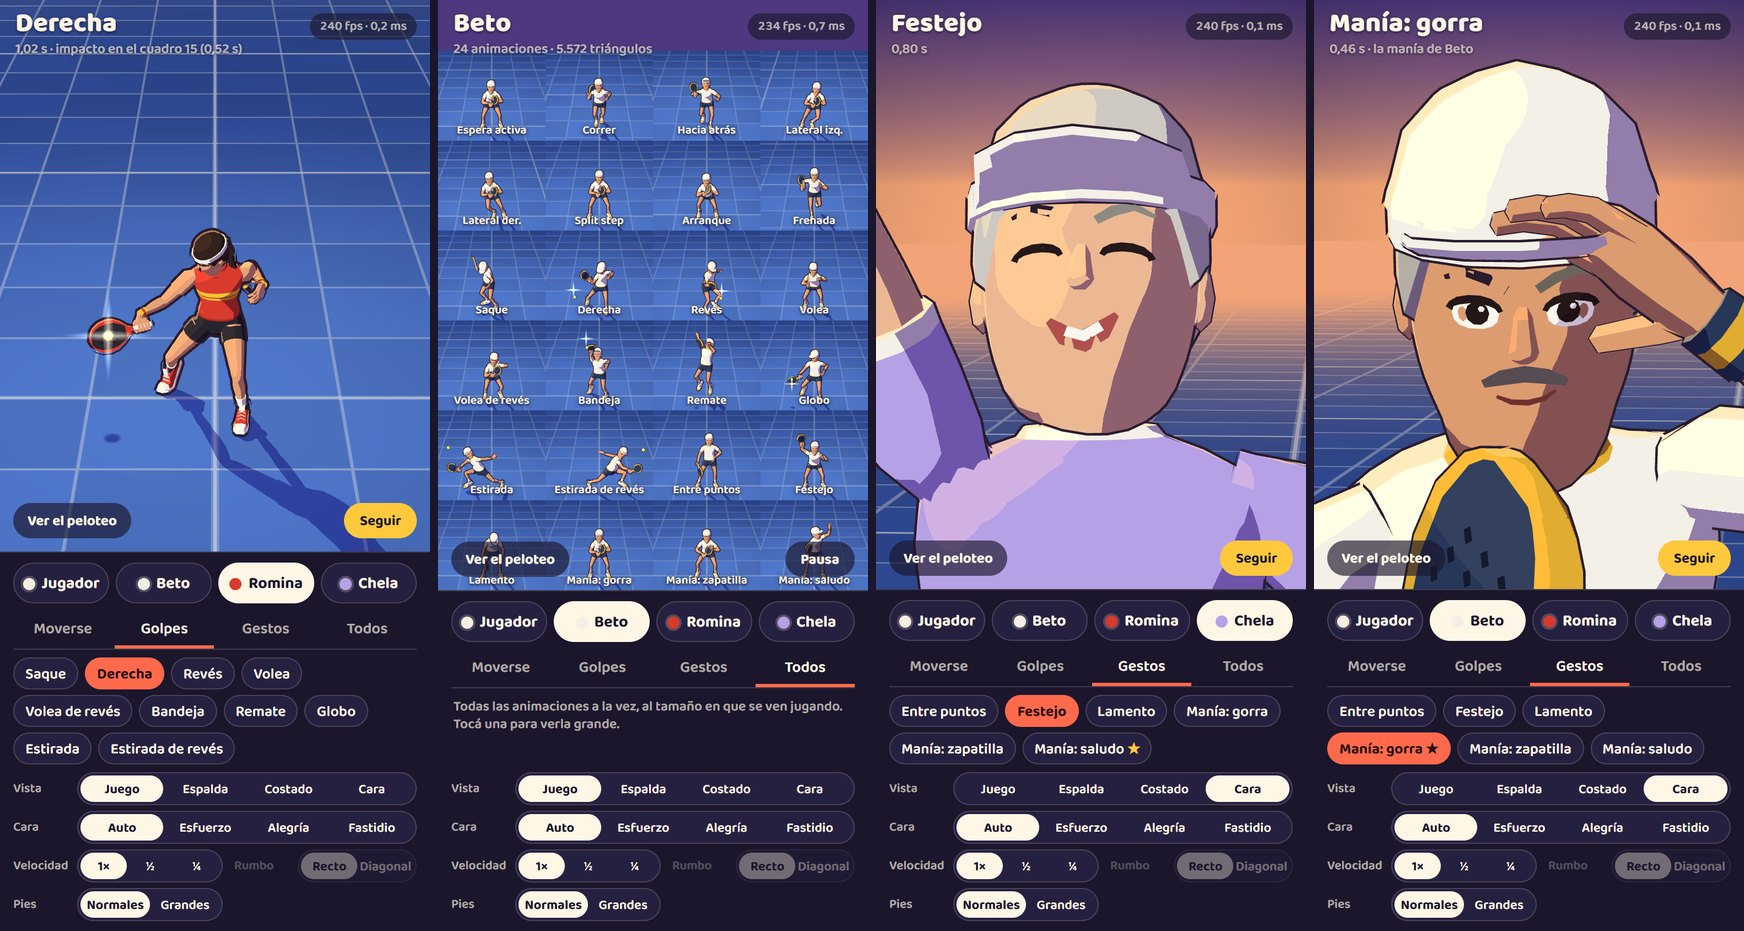
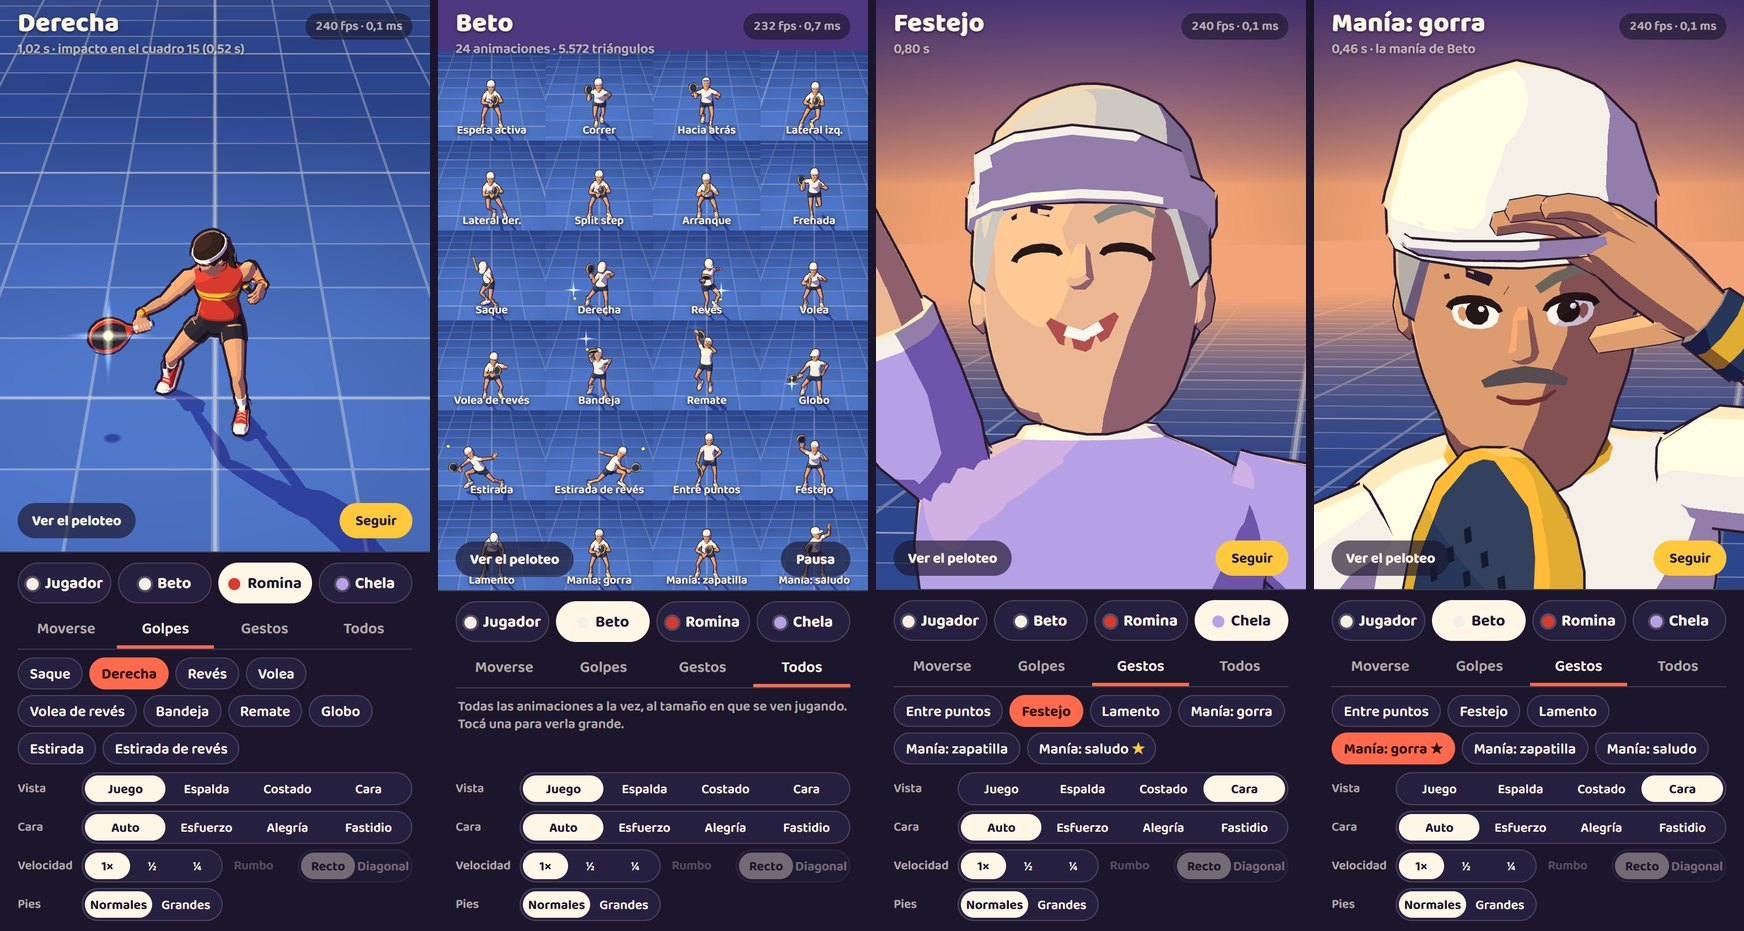
Polish the backhand and give the side gallop and backpedal a livelier upper body
- Backhand: more upright, the hips lead before the racket drops, contact at
  waist height and a higher finish.
- Side gallop and backpedal: shoulders, hands and racket now move with the
  push and the steps.
- Re-exported the character and refreshed the review sheets, the captures,
  the weight and foot-plant reports and the README numbers.

diff --git a/design/prueba-3d/blender/anim_golpes.py b/design/prueba-3d/blender/anim_golpes.py
@@ -66,32 +66,40 @@ def _derecha():
 # Revés: de costado, la mano izquierda acompaña la pala en el armado y después abre para atrás
 # ---------------------------------------------------------------------------
 def _reves():
-    cruza = (0.02, -0.42, 0.0)                    # el pie derecho cruza adelante
+    cruza = (0.04, -0.46, 0.0)                    # el pie derecho cruza adelante
     arm = pose(
-        hips=(0.09, 0.03, -0.17), hips_rot=(12, 58, 0), spine=(6, 20, -2), chest=(4, 26, -3), look=(0.9, -3.0, 1.0),
-        footR=cruza, footR_rot=(52, 0), footL=PIE_L, footL_rot=(76, 0),
-        handR=(0.38, 0.12, 1.12), elbowR=(-0.2, -0.5, -0.8), racket=(0.30, 0.52, 0.80), face=(-0.5, 0.75, -0.4),
-        handL=(0.47, 0.20, 1.22), elbowL=(0.6, 0.6, -0.5), fingersL=(-0.3, 0.3, 0.9), palmL=(-0.8, -0.5, 0),
+        hips=(0.10, 0.04, -0.13), hips_rot=(8, 60, 0), spine=(4, 20, -2), chest=(2, 28, -3), look=(0.9, -3.0, 1.0),
+        footR=cruza, footR_rot=(54, 0), footL=PIE_L, footL_rot=(78, 0),
+        handR=(0.44, 0.06, 1.00), elbowR=(-0.3, -0.4, -0.9), racket=(0.22, 0.62, 0.75), face=(-0.5, 0.75, -0.4),
+        handL=(0.52, 0.17, 1.10), elbowL=(0.7, 0.6, -0.4), fingersL=(-0.3, 0.3, 0.9), palmL=(-0.8, -0.5, 0),
         braid=(-14, 2, -22, 4),
     )
-    load = pose(arm, hips=(0.11, 0.05, -0.23), hips_rot=(15, 66, 0), chest=(4, 30, -4), handR=(0.44, 0.20, 1.10), handL=(0.52, 0.28, 1.20),
-                racket=(0.40, 0.62, 0.68), braid=(-18, 6, -28, 8))
+    load = pose(arm, hips=(0.13, 0.07, -0.20), hips_rot=(10, 68, 0), chest=(2, 32, -4), handR=(0.50, 0.14, 0.98), handL=(0.58, 0.25, 1.08),
+                racket=(0.34, 0.70, 0.63), braid=(-18, 6, -28, 8))
+    drop = pose(                                    # la cadera sale primero; la pala todavía viene atrás y abajo
+        hips=(0.09, -0.04, -0.17), hips_rot=(9, 52, 0), spine=(4, 18, 0), chest=(2, 26, 0), look=(0.6, -1.4, 0.95),
+        footR=cruza, footR_rot=(48, 0), footL=PIE_L, footL_rot=(72, 20),
+        handR=(0.46, -0.18, 0.88), elbowR=(0.0, -0.2, -1.0), racket=(0.55, 0.62, -0.20), face=(-0.3, 0.8, -0.5),
+        handL=(0.52, 0.24, 1.10), elbowL=(0.7, 0.6, -0.4), fingersL=(0.1, 0.6, 0.6), palmL=(-0.6, -0.4, -0.6),
+        braid=(-6, 4, -10, 6),
+    )
     hit = pose(
-        hips=(0.05, -0.12, -0.15), hips_rot=(12, 40, 0), spine=(6, 12, 0), chest=(4, 12, 0), look=(0.55, -0.92, 0.95),
-        footR=cruza, footR_rot=(42, 0), footL=PIE_L, footL_rot=(68, 34),
-        handR=(0.18, -0.66, 1.02), elbowR=(0.3, 0.2, -0.9), racket=(0.90, -0.42, -0.08), face=(0.1, 1.0, -0.12),
-        handL=(0.40, 0.36, 1.12), elbowL=(0.7, 0.5, -0.5), fingersL=(0.5, 0.8, -0.3), palmL=(0, 0, -1),
+        hips=(0.05, -0.16, -0.10), hips_rot=(7, 40, 0), spine=(3, 10, 0), chest=(1, 8, 0), look=(0.50, -0.95, 1.0),
+        footR=cruza, footR_rot=(42, 0), footL=PIE_L, footL_rot=(66, 40),
+        handR=(0.16, -0.70, 1.04), elbowR=(0.3, 0.2, -0.9), racket=(0.92, -0.38, -0.04), face=(0.1, 1.0, -0.10),
+        handL=(0.44, 0.44, 1.18), elbowL=(0.6, 0.7, -0.3), fingersL=(0.45, 0.85, -0.2), palmL=(0, 0, -1),
         braid=(20, 6, 30, 10),
     )
     follow = pose(
-        hips=(0.03, -0.18, -0.10), hips_rot=(10, 26, 0), spine=(4, 6, 0), chest=(2, 4, 0), look=(0.3, -2.0, 1.2),
-        footR=cruza, footR_rot=(34, 0), footL=PIE_L, footL_rot=(60, 52),
-        handR=(-0.36, -0.62, 1.28), elbowR=(0.2, 0.3, -0.9), racket=(-0.52, -0.50, 0.69), face=(-0.5, 0.75, 0.3),
-        handL=(0.44, 0.46, 0.98), elbowL=(0.7, 0.5, -0.5), fingersL=(0.4, 0.85, -0.3), palmL=(0, 0, -1),
+        hips=(0.02, -0.22, -0.05), hips_rot=(5, 24, 0), spine=(1, 4, 0), chest=(-2, 0, 0), look=(0.3, -2.0, 1.3),
+        footR=cruza, footR_rot=(34, 0), footL=PIE_L, footL_rot=(58, 56),
+        handR=(-0.40, -0.58, 1.40), elbowR=(0.2, 0.3, -0.9), racket=(-0.48, -0.36, 0.80), face=(-0.5, 0.75, 0.3),
+        handL=(0.48, 0.52, 1.00), elbowL=(0.7, 0.5, -0.5), fingersL=(0.4, 0.85, -0.3), palmL=(0, 0, -1),
         braid=(24, 8, 34, 12),
     )
-    end = pose(follow, handR=(-0.46, -0.52, 1.38), racket=(-0.60, -0.30, 0.74), hips_rot=(9, 20, 0), look=(0.0, -6.0, 1.9), braid=(-8, 4, -12, 6))
-    return _golpe('reves', 1.02, 0.52, [K(0.0, pose(), True), K(0.20, arm), K(0.40, load, True), K(0.52, hit), K(0.62, follow),
+    end = pose(follow, hips=(0.02, -0.22, -0.03), handR=(-0.50, -0.46, 1.50), racket=(-0.52, -0.16, 0.84), hips_rot=(5, 18, 0),
+               look=(0.0, -6.0, 1.9), braid=(-8, 4, -12, 6))
+    return _golpe('reves', 1.02, 0.52, [K(0.0, pose(), True), K(0.20, arm), K(0.40, load, True), K(0.47, drop), K(0.52, hit), K(0.62, follow),
                                         K(0.75, end, True), K(1.02, pose(), True)], 'Revés', (0.20, 0.40), 'reves')
 
 

diff --git a/design/prueba-3d/blender/anim_locomocion.py b/design/prueba-3d/blender/anim_locomocion.py
@@ -95,13 +95,13 @@ def atras_pose(ph):
     yl, ll, hl, al = _atras_foot(ph)
     yr, lr, hr, ar = _atras_foot(ph + 0.5)
     return pose(
-        hips=(0.016 * sn, 0.075, -0.115 + 0.018 * bob), hips_rot=(15, 7 * s, -2 * sn),
-        spine=(7, -6 * s, 0), chest=(2, -6 * s, 0), head=(0, 0, 0), look=(0.0, -6.0, 4.2),
+        hips=(0.016 * sn, 0.075, -0.115 + 0.018 * bob), hips_rot=(15, 9 * s, -2 * sn),
+        spine=(7, -8 * s, 0), chest=(2, -9 * s, 3 * sn), head=(0, 0, 0), look=(0.0, -6.0, 4.2),
         footL=(0.12 + 0.015 * al, yl, ll), footL_rot=(12, hl), kneeL=(0,),
         footR=(-0.12 - 0.015 * ar, yr, lr), footR_rot=(-12, hr), kneeR=(0,),
-        handR=(-0.27, -0.26 + 0.04 * s, 1.27 + 0.012 * bob), elbowR=(-0.8, 0.5, -0.3),
-        racket=(-0.08, -0.05, 0.99), face=(0.25, -0.95, 0.15),
-        handL=(0.33, -0.36 - 0.05 * s, 1.08 - 0.012 * bob), elbowL=(0.8, 0.5, -0.4),
+        handR=(-0.27, -0.26 + 0.09 * s, 1.27 + 0.03 * bob + 0.03 * s), elbowR=(-0.8, 0.5, -0.3),
+        racket=(-0.08 + 0.06 * s, -0.05 - 0.08 * s, 0.99), face=(0.25, -0.95, 0.15),
+        handL=(0.33, -0.34 - 0.12 * s, 1.08 - 0.02 * bob - 0.06 * s), elbowL=(0.8, 0.5, -0.4),
         fingersL=(0.25, -0.75, 0.60), palmL=(-0.5, 0.3, -0.8),
         braid=(-6 * sn, -14 + 4 * bob, -10 * sn, -22 + 6 * bob),
     )
@@ -142,6 +142,7 @@ def lateral_pose(ph, sign):
                                [(0.0, 46.0), (0.35, 30.0), (0.8, 10.0), (1.0, 14.0)], 0.09)
     hop = math.cos(TAU * (ph - 0.80))        # +1 en el medio del vuelo
     push = ramp(0.30, 0.56, ph) * ramp(0.72, 0.56, ph)      # el empujón de la pierna de atrás
+    sw = math.cos(TAU * (ph - 0.47))         # los hombros y las manos se quedan cuando empuja y se adelantan en el vuelo
     if sign > 0:
         fl, fr = (xa, -0.12, la), (xb, -0.10, lb)
         rl, rr = (16, ha), (-14, hb)
@@ -150,12 +151,12 @@ def lateral_pose(ph, sign):
         rl, rr = (14, hb), (-16, ha)
     return pose(
         hips=(sign * (0.035 + 0.03 * math.cos(TAU * (ph - 0.05))), 0.06, -0.165 + 0.034 * hop),
-        hips_rot=(19, 3 * sign, sign * (3 + 3 * push)), spine=(10, -2 * sign, -sign * 2 * push), chest=(6, -1 * sign, 0),
+        hips_rot=(19, 3 * sign, sign * (3 + 3 * push)), spine=(10, -2 * sign, -sign * 3 * push), chest=(6, -1 * sign - 5 * sign * sw, -sign * 4 * sw),
         head=(0, 0, 0), look=MIRA,
         footL=fl, footL_rot=rl, kneeL=(0,), footR=fr, footR_rot=rr, kneeR=(0,),
-        handR=(-0.09 - 0.02 * sign * push, -0.40, 0.995 + 0.035 * hop), elbowR=(-0.8, 0.3, -0.5),
-        racket=(0.42, -0.40, 0.82), face=(0.8, 0.55, -0.1),
-        handL=(0.115 - 0.02 * sign * push, -0.455, 1.095 + 0.035 * hop), elbowL=(0.8, 0.3, -0.5),
+        handR=(-0.09 - 0.06 * sign * sw, -0.40 + 0.03 * sw, 0.995 + 0.055 * hop), elbowR=(-0.8 - 0.15 * hop, 0.3, -0.5),
+        racket=(0.42 + 0.10 * sign * sw, -0.40, 0.82), face=(0.8, 0.55, -0.1),
+        handL=(0.115 - 0.06 * sign * sw, -0.455 + 0.03 * sw, 1.095 + 0.055 * hop), elbowL=(0.8 + 0.15 * hop, 0.3, -0.5),
         fingersL=(-0.55, -0.45, 0.70), palmL=(-0.6, 0.7, 0.2),
         braid=(-13 * sign - 5 * sign * hop, 4 + 6 * hop, -21 * sign - 8 * sign * hop, 6 + 9 * hop),
     )

diff --git a/design/prueba-3d/README.md b/design/prueba-3d/README.md
@@ -205,12 +205,12 @@ Medido con `herramientas/pesar.mjs`, que parte el archivo y comprime cada parte 
 | Pieza: bigote | 0,2 | 0,2 | 0,2 | 10 vértices |
 | Caras: 4 expresiones | 3,1 | 1,6 | 1,3 | 130 vértices que se mueven |
 | Clips: espera activa | 6,2 | 1,7 | 1,5 | 1 clip, 30 cuadros |
-| Clips: locomoción | 20,4 | 8,8 | 7,7 | 7 clips, 99 cuadros |
-| Clips: golpes | 62,0 | 30,2 | 25,4 | 10 clips, 301 cuadros |
+| Clips: locomoción | 20,4 | 9,1 | 7,9 | 7 clips, 99 cuadros |
+| Clips: golpes | 62,0 | 30,2 | 25,5 | 10 clips, 301 cuadros |
 | Clips: reacciones | 22,7 | 6,3 | 5,4 | 3 clips, 110 cuadros |
 | Clips: manías | 10,9 | 4,7 | 4,1 | 3 clips, 53 cuadros |
 | Metadatos (JSON) | 18,4 | 3,7 | 3,2 | Huesos, paletas, personajes y clips |
-| **Archivo completo** | **253,6** | **115,0** | **83,5** | 4.676 vértices, 5.848 triángulos, 24 clips |
+| **Archivo completo** | **253,6** | **115,3** | **83,5** | 4.676 vértices, 5.848 triángulos, 24 clips |
 
 Contra la ronda 3:
 
@@ -223,11 +223,11 @@ Contra la ronda 3:
 | Caras | 1 | 5 |
 
 - **Hay más del doble de animación y el archivo pesa menos.** Lo pagó la dieta de la malla.
-- **Los clips son ahora la mitad del peso.** Un golpe pesa entre 2 y 4 KB; un ciclo de locomoción, 1,2 a 1,6 KB.
+- **Los clips son ahora la mitad del peso.** Un golpe pesa entre 2 y 4 KB; un ciclo de locomoción, 1,3 a 1,6 KB.
 - Los giros se guardan con 11 bits por componente en vez de 16. Ahorra un 30 % en los clips. El costo: un pie quieto se mueve hasta 1,5 mm, contra 0,1 mm con 16 bits. Con 10 bits se ahorran otros 6 KB y el pie quieto se mueve hasta 3,5 mm; no se hizo para que no tiemble en la vista de cerca.
 - **GitHub Pages**: no se verificó que comprima los `.bin`. Si no lo hace, viajarían los 254 KB enteros. Hay dos salidas: publicarlo ya comprimido y abrirlo con `DecompressionStream('gzip')`, o servirlo con una extensión que el hosting sí comprima.
 
-Por clip, con gzip, en KB: listo 1,7 · correr 1,6 · correr_atras 1,2 · lateral_izq 1,2 · lateral_der 1,2 · split_step 1,8 · arranque 1,3 · frenada 1,6 · saque 3,9 · derecha 3,6 · reves 3,3 · volea 2,2 · volea_reves 2,1 · bandeja 3,5 · remate 4,2 · globo 3,6 · estirada 2,9 · estirada_reves 3,0 · espera 1,8 · festejo 2,5 · lamento 2,1 · mania_gorra 1,2 · mania_zapatilla 1,8 · mania_saludo 2,0.
+Por clip, con gzip, en KB: listo 1,7 · correr 1,6 · correr_atras 1,3 · lateral_izq 1,3 · lateral_der 1,3 · split_step 1,8 · arranque 1,3 · frenada 1,6 · saque 3,9 · derecha 3,6 · reves 3,3 · volea 2,2 · volea_reves 2,1 · bandeja 3,5 · remate 4,2 · globo 3,6 · estirada 2,9 · estirada_reves 3,0 · espera 1,8 · festejo 2,5 · lamento 2,1 · mania_gorra 1,2 · mania_zapatilla 1,8 · mania_saludo 2,0.
 
 ### Qué se verificó
 
@@ -239,7 +239,7 @@ node design/prueba-3d/herramientas/verificar-pasos.mjs
 
 El detalle por clip está en [`pasos.json`](pasos.json).
 
-- **Los pies no patinan.** Un pie apoyado se aparta, como mucho, 7,7 mm de donde apoyó (el pie de atrás del paso lateral). En correr son 4,5 mm; en el resto de la locomoción, menos de 3,5 mm. Al tamaño de juego, 7,7 mm es un tercio de píxel.
+- **Los pies no patinan.** Un pie apoyado se aparta, como mucho, 7,7 mm de donde apoyó (el pie de atrás del paso lateral). En correr son 4,5 mm; en el resto de la locomoción, 3,4 mm o menos. Al tamaño de juego, 7,7 mm es un tercio de píxel.
 - **De dónde sale ese resto**: los clips se guardan a 30 cuadros por segundo y entre cuadro y cuadro se interpola. Con los giros a 16 bits el número casi no cambia (7,2 mm): es la interpolación, no la precisión. En la fuente, antes de exportar, el pie apoyado se mueve 1,6 mm como mucho en la locomoción (`blender/verificar_pasos.py`).
 - **Los empalmes son exactos**: de la espera al arranque, del arranque a correr, de correr a la frenada y de la frenada a la espera, la última pose de un clip y la primera del siguiente coinciden (0,0 mm).
 - **El contacto es exacto**: en el cuadro de contacto, la pala queda a 1,3 mm o menos del punto que declaran los metadatos.
@@ -268,9 +268,8 @@ Con el criterio de «Exigencia visual» de `CLAUDE.md`. Lo que sigue está mirad
 
 - **El ritmo no está probado.** Anticipación lenta, impacto seco y freno están en los tiempos de las claves (entre 0,09 y 0,19 s del final del armado al contacto), pero no pude ver si se sienten así. Es lo primero que hay que mirar en el celular, a velocidad normal y a un cuarto.
 - **Todo el elenco se mueve igual.** Tempo y amplitud cambian cuánto y qué tan rápido, no cómo. Beto hace el mismo remate con tijera que Romina, y a los 55 años y con esa panza no debería. Falta un gesto propio por personaje en el armado; `docs/personajes.md` los llama gestos delatores y el motor ya los tiene en su versión gris.
-- **El revés es el golpe más flojo.** El cuerpo queda encogido en el impacto y el contacto sale bajo. La volea de revés tapa el torso con la pala.
-- **La carrera hacia atrás es correcta y sosa**: los brazos casi no se mueven.
-- **El paso lateral tiene el tren superior duro.** Las manos quedan en la posición de espera y solo suben y bajan.
+- **El revés sigue siendo el golpe menos vistoso**, aun después de una segunda pasada (más erguido, la cadera sale antes que la pala y el final va arriba). Desde la cámara del rival, el armado queda delante del cuerpo y se lee poco. La volea de revés tapa el torso con la pala.
+- **La carrera hacia atrás y el paso lateral son los ciclos con menos carácter.** Tuvieron una segunda pasada de brazos y hombros, y siguen pareciendo ejercicios: correctos, sin intención. En el lateral, las manos casi no salen de la posición de espera.
 - **Las manos siguen siendo dos.** La izquierda está siempre abierta y la derecha siempre cerrada sobre el mango. No hay puño para festejar ni dedos que señalen.
 - **Las caras son correctas y genéricas.** Cuatro expresiones iguales para todos. Los dientes son un rectángulo. De cerca, el borde de la sombra en la mejilla se ve quebrado, porque sigue los polígonos.
 - **La dieta se nota de cerca.** Las zapatillas tienen facetas en la puntera y el cuello es un anillo de ocho lados. Las puntas de los dedos son pirámides.
@@ -284,7 +283,7 @@ Con el criterio de «Exigencia visual» de `CLAUDE.md`. Lo que sigue está mirad
 
 - **Mirarlos en movimiento en el celular** y ajustar tiempos. Los clips son datos: cambiar un tiempo y volver a exportar tarda 3 segundos.
 - **Un gesto propio por personaje** en el armado de los golpes, y una forma propia de correr para Beto y para Chela.
-- **Revés y volea de revés**: otra pasada.
+- **Revés y volea de revés**: otra pasada, mirándolos en movimiento.
 - **Pegar en movimiento**: un clip de derecha y uno de revés en carrera, o una capa de piernas debajo del golpe.
 - **Más manos**: un puño y un índice que señala, como piezas o como una expresión más.
 - **Busto con expresión** para el marcador, usando la vista de cerca.
@@ -391,7 +390,7 @@ Todos traen `name`, `dur`, `loop`, `frames`, `t0`, `data`, `label` y `grupo` (`b
 | `frenada` | locomoción | 0,47 s | | | Avanza 0,46 m |
 | `saque` | golpe | 1,40 s | 0,84 s, cuadro 25 | −0,21 · −0,48 · 0,62 | Suelta la pelota a los 0,20 s |
 | `derecha` | golpe | 1,02 s | 0,52 s, cuadro 15 | −0,75 · −0,60 · 0,87 | |
-| `reves` | golpe | 1,02 s | 0,52 s, cuadro 15 | 0,43 · −0,75 · 0,91 | |
+| `reves` | golpe | 1,02 s | 0,52 s, cuadro 15 | 0,42 · −0,78 · 0,94 | |
 | `volea` | golpe | 0,66 s | 0,26 s, cuadro 7 | −0,66 · −0,70 · 1,41 | |
 | `volea_reves` | golpe | 0,66 s | 0,26 s, cuadro 7 | 0,39 · −0,67 · 1,38 | |
 | `bandeja` | golpe | 1,05 s | 0,52 s, cuadro 15 | −0,40 · −0,38 · 2,05 | Sin saltar |
